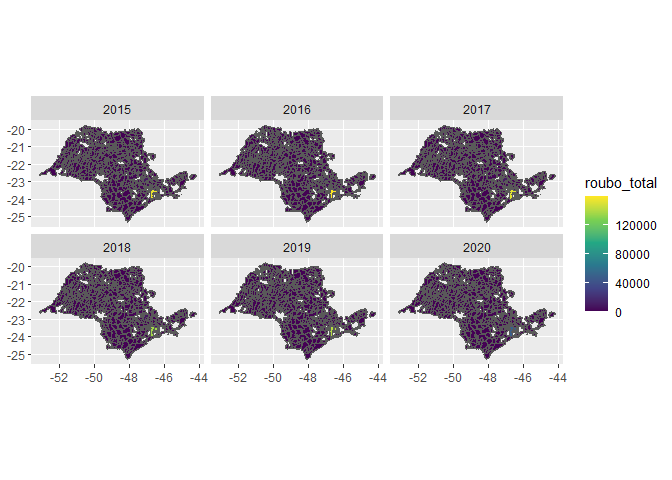
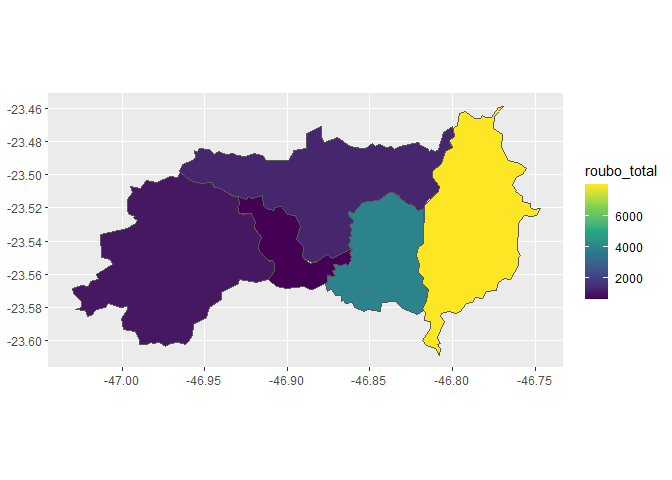
atualização dos graficos

diff --git a/README.md b/README.md
@@ -18,6 +18,8 @@ library(dplyr)
 library(sf)
 #> Warning: package 'sf' was built under R version 4.0.4
 #> Linking to GEOS 3.8.0, GDAL 3.0.4, PROJ 6.3.1
+library(tidyr)
+library(purrr)
 ```
 
 # tcc
@@ -49,96 +51,70 @@ dados %>%
 ``` r
 municipios_brasil <- readr::read_rds("data/municipios_todos.rds")
 
-dados_idh_muni <- abjData::pnud_min %>% 
-  mutate(code_muni = as.double(muni_id))
-
-
 geom_sp<-municipios_brasil %>% 
   filter(abbrev_state == "SP")
   
-  
-dados %>% 
-  filter(ano >= 2015) %>%
+
+fazer_grafico <- function(tab) {
+  tab %>% 
+    ggplot(aes(fill = roubo_total)) +
+    scale_fill_viridis_c() +
+    geom_sf(aes(geometry = geom))
+}
+
+
+regiao_norte<-c("Caieiras", "Cajamar", "Francisco Morato", "Franco da Rocha", "Mairiporã")
+
+regiao_leste<-c("Arujá", "Biritiba-Mirim", "Ferraz de Vasconcelos", "Guararema", "Guarulhos", "Itaquaquecetuba", "Mogi das Cruzes", "Poá", "Salesópolis", "Santa Isabel", "Suzano")
+
+regiao_sudeste<-c("Diadema", "Mauá", "Ribeirão Pires", "Rio Grande da Serra", "Santo André", "São Bernardo do Campo", "São Caetano do Sul")
+
+regiao_sudoeste<-c("Cotia", "Embu", "Embu-Guaçu", "Itapecerica da Serra", "Juquitiba", "São Lourenço da Serra", "Taboão da Serra", "Vargem Grande Paulista")
+
+regiao_oeste<-c("Barueri", "Carapicuíba", "Itapevi", "Jandira", "Osasco", "Pirapora do Bom Jesus", "Santana de Parnaíba")
+
+
+dados_graficos <- dados %>%
+  filter(municipio_nome %in% c(regiao_oeste)) %>% 
   select(municipio_nome, ano, roubo_total) %>% 
   group_by(ano, municipio_nome) %>% 
   summarise(roubo_total = sum(roubo_total, na.rm = TRUE)) %>% 
   left_join(geom_sp, by=c("municipio_nome" = "name_muni")) %>%
-  filter(!is.na(abbrev_state)) %>% 
-  ggplot(aes(fill = roubo_total)) +
-  facet_wrap(~ano) +
-  scale_fill_viridis_c() +
-  geom_sf(aes(geometry = geom))
+  filter(!is.na(abbrev_state)) %>%
+  group_by(ano) %>% 
+  tidyr::nest() %>% 
+  mutate(grafico = map(data, fazer_grafico))
 #> `summarise()` has grouped output by 'ano'. You can override using the `.groups` argument.
+
+dados_graficos %>% 
+  filter(ano %in% c(2015:2020)) %>% 
+  pull(grafico)
+#> [[1]]
 ```
 
 ![](README_files/figure-gfm/unnamed-chunk-3-1.png)<!-- -->
 
-``` r
-   
+    #> 
+    #> [[2]]
 
-  
-dados %>% summary(roubo_total)
-#>       mes              ano       delegacia_nome     municipio_nome    
-#>  Min.   : 1.000   Min.   :2002   Length:311833      Length:311833     
-#>  1st Qu.: 3.000   1st Qu.:2006   Class :character   Class :character  
-#>  Median : 6.000   Median :2011   Mode  :character   Mode  :character  
-#>  Mean   : 6.426   Mean   :2011                                        
-#>  3rd Qu.: 9.000   3rd Qu.:2015                                        
-#>  Max.   :12.000   Max.   :2020                                        
-#>  regiao_nome           estupro         estupro_total     estupro_vulneravel
-#>  Length:311833      Min.   : 0.00000   Min.   : 0.0000   Min.   : 0.00000  
-#>  Class :character   1st Qu.: 0.00000   1st Qu.: 0.0000   1st Qu.: 0.00000  
-#>  Mode  :character   Median : 0.00000   Median : 0.0000   Median : 0.00000  
-#>                     Mean   : 0.03494   Mean   : 0.4653   Mean   : 0.09784  
-#>                     3rd Qu.: 0.00000   3rd Qu.: 0.0000   3rd Qu.: 0.00000  
-#>                     Max.   :10.00000   Max.   :38.0000   Max.   :15.00000  
-#>   furto_outros    furto_veiculos    hom_culposo_acidente_transito
-#>  Min.   :  0.00   Min.   :  0.000   Min.   : 0.0000              
-#>  1st Qu.:  0.00   1st Qu.:  0.000   1st Qu.: 0.0000              
-#>  Median :  7.00   Median :  0.000   Median : 0.0000              
-#>  Mean   : 30.05   Mean   :  6.259   Mean   : 0.2494              
-#>  3rd Qu.: 38.00   3rd Qu.:  4.000   3rd Qu.: 0.0000              
-#>  Max.   :999.00   Max.   :574.000   Max.   :32.0000              
-#>  hom_culposo_outros   hom_doloso      hom_doloso_acidente_transito
-#>  Min.   : 0.00000   Min.   : 0.0000   Min.   :0.000000            
-#>  1st Qu.: 0.00000   1st Qu.: 0.0000   1st Qu.:0.000000            
-#>  Median : 0.00000   Median : 0.0000   Median :0.000000            
-#>  Mean   : 0.01502   Mean   : 0.3142   Mean   :0.001472            
-#>  3rd Qu.: 0.00000   3rd Qu.: 0.0000   3rd Qu.:0.000000            
-#>  Max.   :31.00000   Max.   :37.0000   Max.   :3.000000            
-#>  hom_tentativa       latrocinio      lesao_corp_culposa_acidente_transito
-#>  Min.   : 0.0000   Min.   :0.00000   Min.   :  0.000                     
-#>  1st Qu.: 0.0000   1st Qu.:0.00000   1st Qu.:  0.000                     
-#>  Median : 0.0000   Median :0.00000   Median :  2.000                     
-#>  Mean   : 0.3485   Mean   :0.01935   Mean   :  7.131                     
-#>  3rd Qu.: 0.0000   3rd Qu.:0.00000   3rd Qu.: 10.000                     
-#>  Max.   :60.0000   Max.   :4.00000   Max.   :288.000                     
-#>  lesao_corp_culposa_outras lesao_corp_dolosa lesao_corp_seg_morte
-#>  Min.   :  0.000           Min.   :  0.000   Min.   :0.0000000   
-#>  1st Qu.:  0.000           1st Qu.:  0.000   1st Qu.:0.0000000   
-#>  Median :  0.000           Median :  5.000   Median :0.0000000   
-#>  Mean   :  0.252           Mean   :  9.944   Mean   :0.0009588   
-#>  3rd Qu.:  0.000           3rd Qu.: 13.000   3rd Qu.:0.0000000   
-#>  Max.   :139.000           Max.   :353.000   Max.   :2.0000000   
-#>   roubo_banco        roubo_carga      roubo_outros      roubo_total    
-#>  Min.   : 0.00000   Min.   : 0.000   Min.   :  0.000   Min.   :  0.00  
-#>  1st Qu.: 0.00000   1st Qu.: 0.000   1st Qu.:  0.000   1st Qu.:  0.00  
-#>  Median : 0.00000   Median : 0.000   Median :  0.000   Median :  0.00  
-#>  Mean   : 0.01215   Mean   : 0.423   Mean   :  2.806   Mean   : 14.85  
-#>  3rd Qu.: 0.00000   3rd Qu.: 0.000   3rd Qu.:  0.000   3rd Qu.:  8.00  
-#>  Max.   :17.00000   Max.   :85.000   Max.   :953.000   Max.   :954.00  
-#>  roubo_veiculo     vit_hom_doloso   vit_hom_doloso_acidente_transito
-#>  Min.   :  0.000   Min.   : 0.000   Min.   :0.000000                
-#>  1st Qu.:  0.000   1st Qu.: 0.000   1st Qu.:0.000000                
-#>  Median :  0.000   Median : 0.000   Median :0.000000                
-#>  Mean   :  4.394   Mean   : 0.333   Mean   :0.001793                
-#>  3rd Qu.:  1.000   3rd Qu.: 0.000   3rd Qu.:0.000000                
-#>  Max.   :627.000   Max.   :37.000   Max.   :6.000000                
-#>  vit_latrocinio  
-#>  Min.   :0.0000  
-#>  1st Qu.:0.0000  
-#>  Median :0.0000  
-#>  Mean   :0.0206  
-#>  3rd Qu.:0.0000  
-#>  Max.   :5.0000
-```
+![](README_files/figure-gfm/unnamed-chunk-3-2.png)<!-- -->
+
+    #> 
+    #> [[3]]
+
+![](README_files/figure-gfm/unnamed-chunk-3-3.png)<!-- -->
+
+    #> 
+    #> [[4]]
+
+![](README_files/figure-gfm/unnamed-chunk-3-4.png)<!-- -->
+
+    #> 
+    #> [[5]]
+
+![](README_files/figure-gfm/unnamed-chunk-3-5.png)<!-- -->
+
+    #> 
+    #> [[6]]
+
+![](README_files/figure-gfm/unnamed-chunk-3-6.png)<!-- -->
